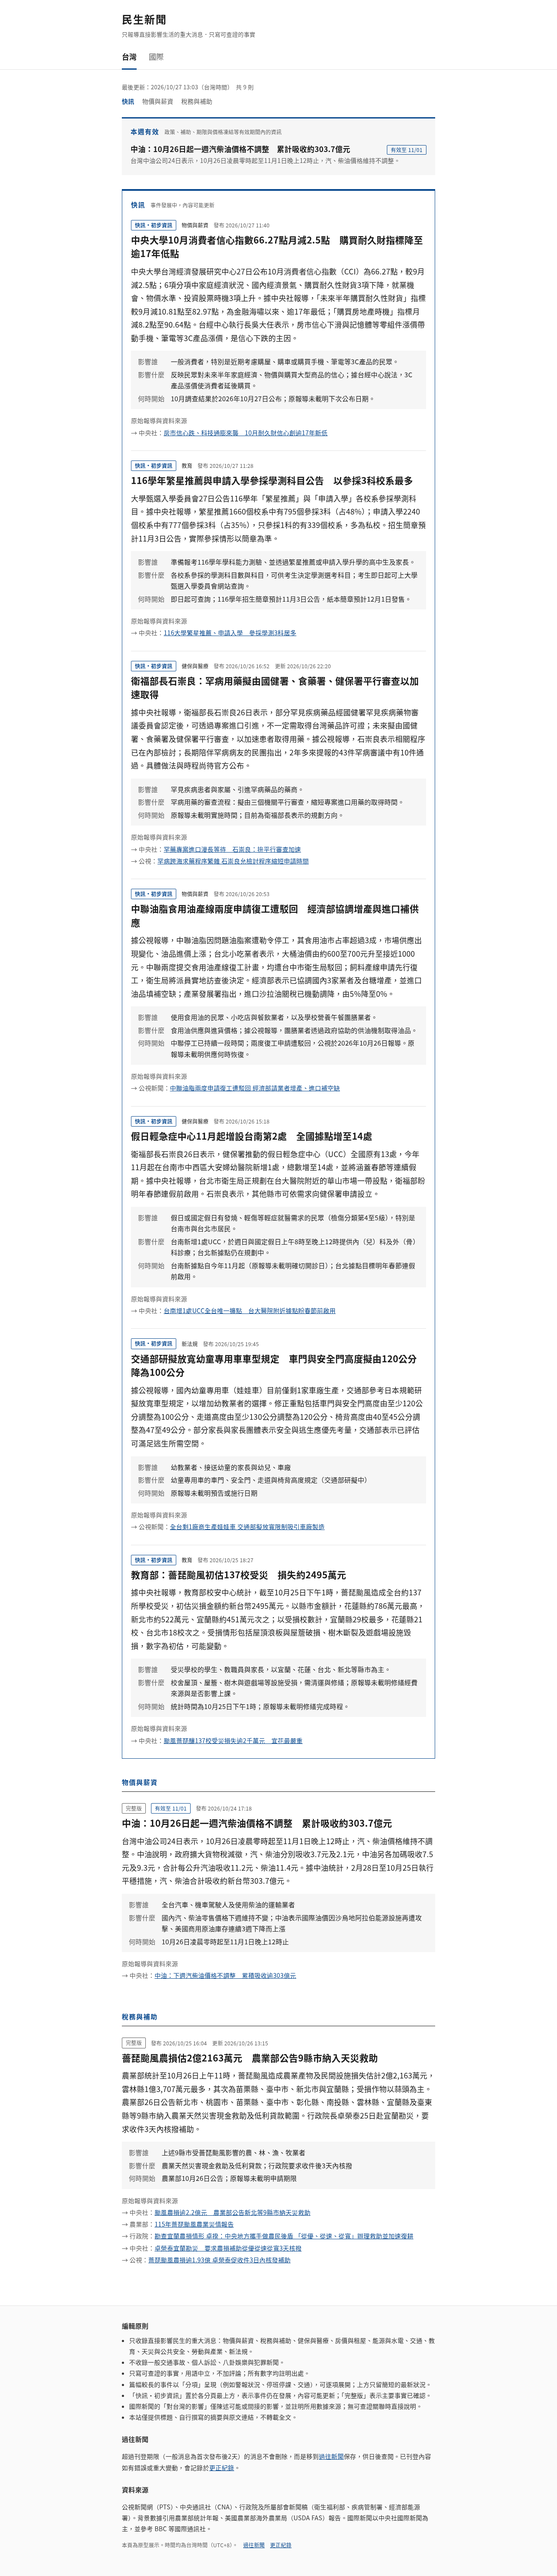
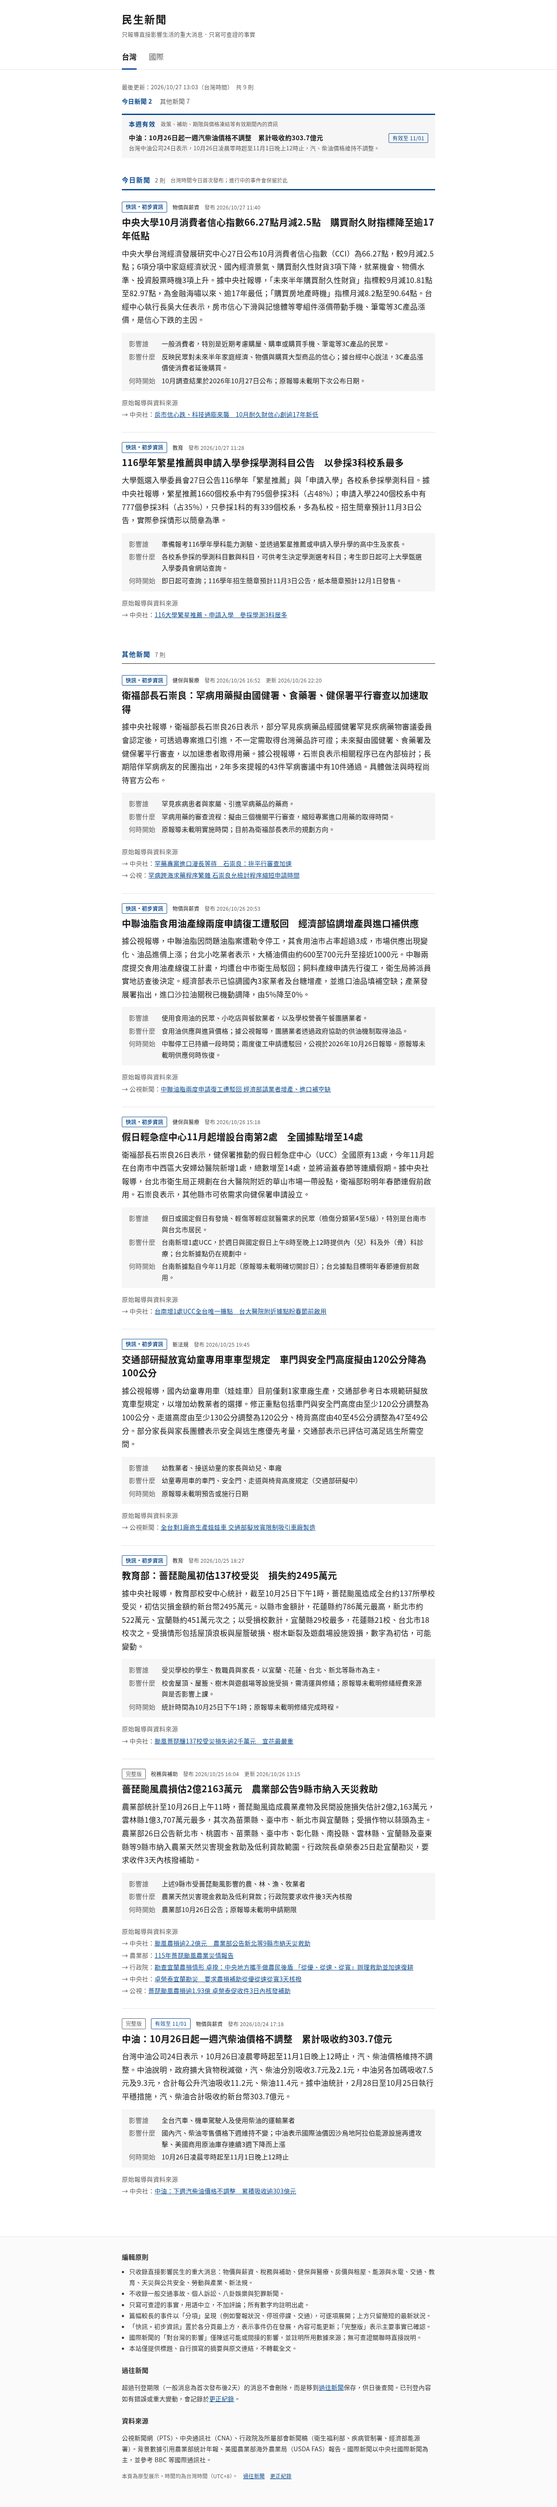
首頁新增「今日新聞」「其他新聞」分區（台灣時間日曆日，進行中事件留在今日）

Changed region(s): [[0.2188, 0.0, 0.7812, 0.9951]]

diff --git a/app.js b/app.js
@@ -2,7 +2,7 @@
   const {fmt, esc, first, itemBody, bindToggles, validEnd, validLabel} = NN;
   let data = null;
 
-  const isBreaking = i => i.status.startsWith("快訊");
+  const isBreaking = i => String(i.status||"").startsWith("快訊");
 
   function card(i, showCat){
     return `
@@ -35,37 +35,62 @@
       </section>`;
   }
 
-  const newest = i => new Date(i.updated || first(i)).getTime();
+  const newest = i => { const t = new Date(i.updated || first(i)).getTime(); return isNaN(t) ? 0 : t; };
 
-  function render(tab){
+  // Calendar day (YYYY-MM-DD) in Taiwan time, computed explicitly in Asia/Taipei; null for invalid input.
+  const dayFmt = new Intl.DateTimeFormat("en-CA", {timeZone:"Asia/Taipei", year:"numeric", month:"2-digit", day:"2-digit"});
+  function taipeiDay(v){
+    const d = v instanceof Date ? v : new Date(v);
+    return (v == null || isNaN(d)) ? null : dayFmt.format(d);
+  }
+  // 今日新聞 = first_published falls on today's calendar date in Taiwan (not 24h based).
+  // Items with an unfinished `ongoing` disaster stay in 今日 until ongoing.ended is set.
+  // Missing / invalid first_published => 其他新聞 (never throws).
+  function sectionOf(i, now){
+    if(i.ongoing && !i.ongoing.ended) return "today";
+    const day = taipeiDay(first(i));
+    return day && day === taipeiDay(now == null ? new Date() : now) ? "today" : "other";
+  }
+  NN.sectionOf = sectionOf; NN.taipeiDay = taipeiDay;
+
+  // 快訊 (pinned first) before the rest, each newest first
+  const ordered = list => list.slice().sort((a,b) =>
+    (isBreaking(b) - isBreaking(a)) || (isBreaking(a) && ((!!b.pinned - !!a.pinned))) || (newest(b)-newest(a)));
+
+  function listSection(id, title, list, emptyText, note){
+    return `
+      <section class="day-sec" id="${id}" aria-label="${title}">
+        <h2>${title}<span class="count">${list.length} 則</span>${note ? `<span class="note">${note}</span>` : ""}</h2>
+        ${list.length ? list.map(i => card(i, true)).join("") : `<p class="day-empty">${emptyText}</p>`}
+      </section>`;
+  }
+
+  let renderedDay = null;
+  function render(tab, keepScroll){
     document.querySelectorAll(".tabs button").forEach(b => b.setAttribute("aria-selected", b.dataset.tab===tab));
     const items = data.items.filter(i => i.tab===tab);
-    // pinned items first, then newest
-    const breaking = items.filter(isBreaking).sort((a,b) => (!!b.pinned - !!a.pinned) || (newest(b)-newest(a)));
-    const rest = items.filter(i => !isBreaking(i));
-    const cats = data.categories.filter(c => rest.some(i => i.category===c));
+    const now = new Date();
+    renderedDay = taipeiDay(now);
+    const today = ordered(items.filter(i => sectionOf(i, now) === "today"));
+    const other = ordered(items.filter(i => sectionOf(i, now) === "other"));
     document.getElementById("updated").textContent = data.updated
       ? `最後更新：${fmt(data.updated)}（台灣時間）　共 ${items.length} 則` : `共 ${items.length} 則`;
     document.getElementById("cat-index").innerHTML =
-      (breaking.length ? `<a href="#breaking-${tab}" class="to-breaking">快訊</a>` : "") +
-      cats.map((c,n) => `<a href="#cat-${tab}-${n}">${esc(c)}</a>`).join("");
+      `<a href="#today-${tab}" class="to-breaking">今日新聞 ${today.length}</a>` +
+      (other.length ? `<a href="#other-${tab}">其他新聞 ${other.length}</a>` : "");
     const el = document.getElementById("content");
     if(!items.length){ el.innerHTML = `<p class="empty">目前沒有符合收錄標準的消息。</p>`; return; }
     el.innerHTML = validBlock(items) +
-      (breaking.length ? `
-      <section class="breaking" id="breaking-${tab}" aria-label="快訊">
-        <h2>快訊<span class="note">事件發展中，內容可能更新</span></h2>
-        ${breaking.map(i => card(i, true)).join("")}
-      </section>` : "") +
-      cats.map((c,n) => `
-      <section class="cat" id="cat-${tab}-${n}">
-        <h2>${esc(c)}</h2>
-        ${rest.filter(i => i.category===c).sort((a,b) => newest(b)-newest(a)).map(i => card(i, false)).join("")}
-      </section>`).join("");
+      listSection(`today-${tab}`, "今日新聞", today, "今天還沒有新的重大民生新聞", "台灣時間今日首次發布；進行中的事件會保留於此") +
+      (other.length ? listSection(`other-${tab}`, "其他新聞", other, "", "") : "");
     bindToggles(el);
+    if(keepScroll) return;
     const target = location.hash.length > 1 && document.getElementById(decodeURIComponent(location.hash.slice(1)));
     if(target) target.scrollIntoView();
   }
+
+  // a page left open across Taiwan midnight moves yesterday's items to 其他新聞
+  setInterval(() => { if(data && renderedDay && taipeiDay(new Date()) !== renderedDay) render(current(), true); }, 30000);
 
   function current(){ return location.hash.startsWith("#intl") ? "intl" : "tw"; }
 

diff --git a/style.css b/style.css
@@ -135,3 +135,20 @@ details.arch-item .item h3{display:none}
   .valid-now h2 .note{display:block;margin:0}
   .item{scroll-margin-top:140px}
 }
+
+/* --- 今日新聞 / 其他新聞 sections --- */
+.day-sec{margin:36px 0 0}
+.day-sec h2{font-size:15px;font-weight:700;color:var(--accent);margin:0 0 4px;padding-bottom:8px;
+  border-bottom:1px solid var(--text);letter-spacing:.1em}
+.day-sec h2 .count{margin-left:10px;font-weight:400;font-size:13px;color:var(--sub);letter-spacing:.02em}
+.day-sec h2 .note{font-weight:400;color:var(--sub);font-size:12px;letter-spacing:.02em;margin-left:12px}
+#today-tw h2,#today-intl h2{border-bottom-width:3px;border-bottom-color:var(--accent)}
+.day-empty{margin:16px 0 0;font-size:15px;color:var(--sub)}
+@media (max-width:520px){ .day-sec h2 .note{display:none} }
+/* keep 本週有效 compact */
+.valid-now{margin:16px 0 0;padding:0 16px 6px}
+.valid-now h2{margin:8px 0 2px;font-size:14px}
+.valid-now li{padding:6px 0}
+.vn-sum{-webkit-line-clamp:1;font-size:13px}
+.vn-title{font-size:15px}
+@media (max-width:520px){ .valid-now{padding:0 12px 4px} .valid-now h2 .note{display:none} }

diff --git a/AUTOMATION.md b/AUTOMATION.md
@@ -111,6 +111,13 @@ CWA 警特報網頁以 JavaScript 載入內容，直接讀頁面看不到。`cwa
 | 有 `valid_until` 的項目（非 `ongoing`） | **有效期限過後**才移入（日期格式＝當天結束前都有效）；另有 **14 天硬上限**（`first_published` 起算），`valid_until` 不得晚於此上限，否則 `validate` 失敗 |
 | 進行中的天災事件（有 `ongoing`，僅限「天災與公共安全」） | 警報／事件**尚未解除**時保留；**警報解除（`ongoing.ended`）且已完成災後／災情總結（`ongoing.wrapup_done: true`）才算結束**，結束後移入。若解除後遲遲未寫完總結，**解除後 24 小時為上限**，屆時仍會移入。仍須滿足一般項目的下限（48 小時）；另有 **7 天硬上限**（避免遺漏導致永遠不下架） |
 
+### 首頁「今日新聞」與「其他新聞」
+
+首頁每個分頁（台灣／國際）在「本週有效」區塊下方分為「今日新聞」與「其他新聞」兩區，各區標題旁顯示則數；區內排序不變（快訊先、`pinned` 最前，再依最新時間）。
+分區完全由前端在載入時依 `first_published` 推導：**`first_published` 落在檢視當下「台灣時間（Asia/Taipei）」的同一個日曆日**即為今日新聞，其餘為其他新聞（以日曆日計，不是 24 小時；台灣時間午夜過後隔天自動移到其他新聞，頁面開著也會自動更新）。
+例外：有 `ongoing` 且 `ongoing.ended` 尚未填寫的天災事件（例如生效中的颱風警報）會一直留在今日新聞並顯示「進行中」，直到 `ended` 填入後才依一般日曆日規則分區。`first_published` 缺漏或格式無效的項目歸入其他新聞，不會出錯。
+**排程不需要為此做任何事**：不需新增欄位、不需移動項目；分區不影響過期規則（48 小時／`valid_until`／14 天上限）與快訊語意。
+
 ### 有效期限 `valid_until` 與「本週有效」區塊
 
 - `valid_until`（選填，台灣時間）：`"2026-11-01"`（當天結束前有效）或 `"2026-11-01T18:00:00+08:00"`。設定後，項目會一直留到該時間過後（最多到 `first_published` 起 14 天），不再套用 48 小時規則。網站在該項目上顯示「有效至 MM/DD」。

diff --git a/README.md b/README.md
@@ -3,3 +3,4 @@
 - 預覽：`python3 -m http.server 8000` 後開啟 http://localhost:8000/ （國際分頁：#intl）
 - 過期規則：一般消息自首次發布起 48 小時移入 `archive.html`（不刪除；有 `valid_until` 的項目留到有效期限過後，上限 14 天）；更正紀錄見 `corrections.html`（資料 `data/corrections.json`）。
 - 更新流程：見 AUTOMATION.md（`python3 update.py fetch` → 編輯 data/news.json → `python3 update.py validate` → `python3 update.py finalize`）。
+- 首頁分區：「本週有效」下方分為「今日新聞」（`first_published` 為台灣時間今日）與「其他新聞」，由前端依日曆日推導、隔天自動移動；進行中（`ongoing` 未解除）的事件留在今日新聞。詳見 AUTOMATION.md。
